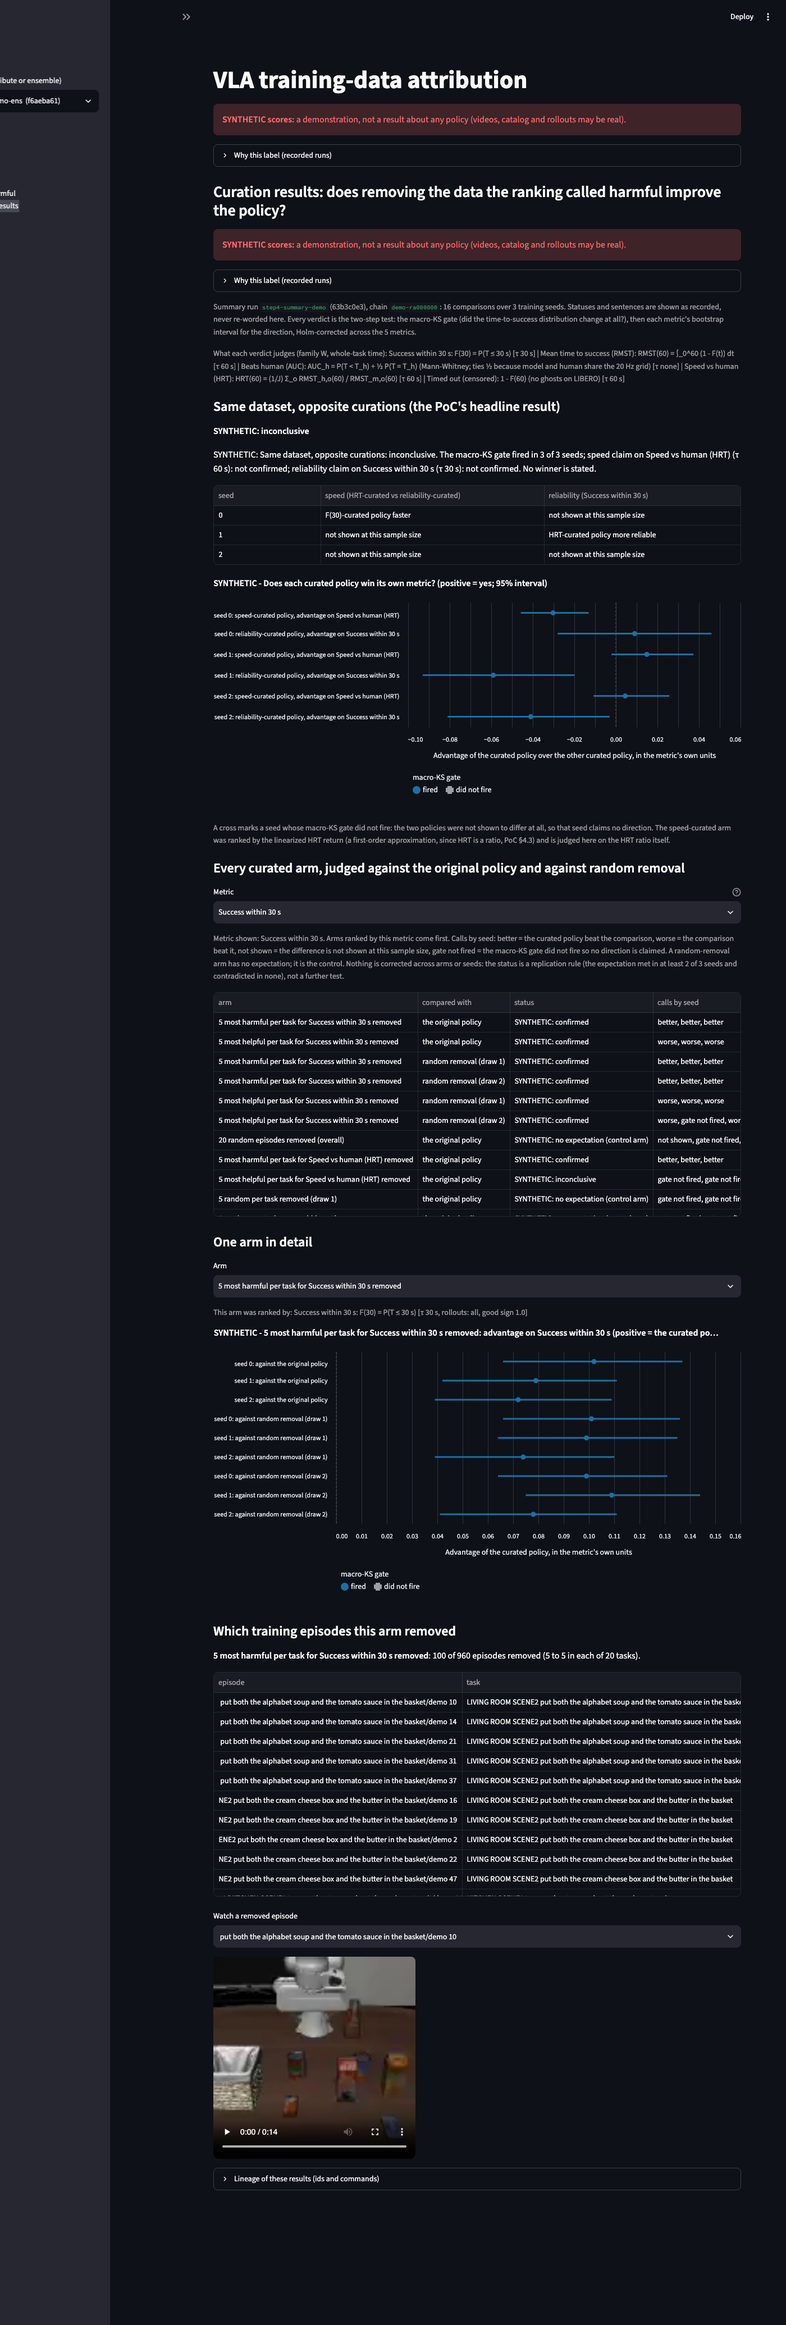
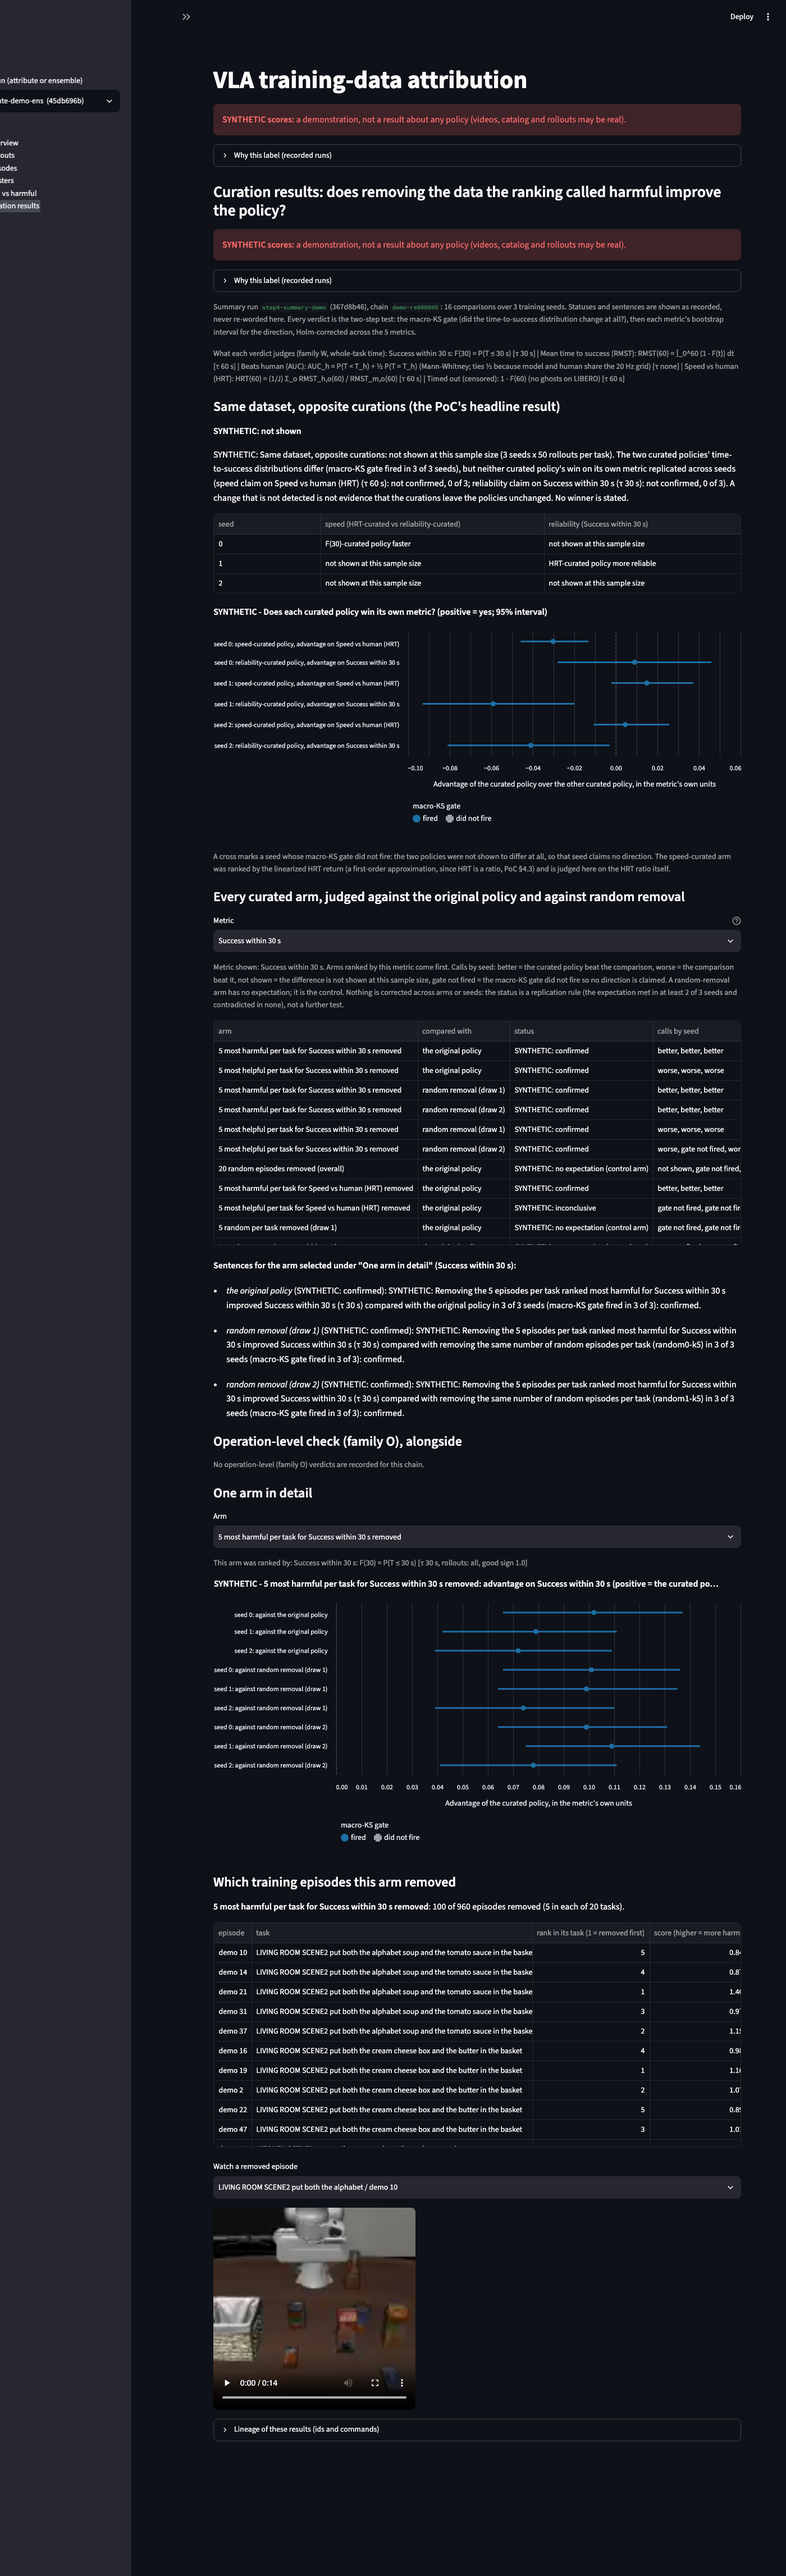
Curation-results r2: execution log round 2, re-captured screenshot, verifier evidence

Changed region(s): [[0.2457, 0.0312, 0.9521, 0.9346], [0.0, 0.0, 0.1843, 1.0]]

diff --git a/tracker/features/2026-11-05-curation-results/execution-log.md b/tracker/features/2026-11-05-curation-results/execution-log.md
@@ -38,7 +38,7 @@ How to view the page: `.venv/bin/streamlit run dashboard/app.py -- --lineage-roo
 **Acceptance criteria:**
 - PASS AC3.1: `[PASS] 3.1 ... {'select': 7, 'train': 24, 'eval': 24, 'verify': 48, 'summarize': 1}; verify kinds {'curated_vs_random': 24, 'vs_base': 21, 'head_to_head': 3}; names equal the dry run's 48; provenance SYNTHETIC (111 runs walked)`; every run of the chain tagged `vlapoc.synthetic=true`; real `mlflow.db` sha256 unchanged (`306af412...bde79`).
 - PASS AC3.2: `[PASS] 3.2 ... gate p 0.00049975 == 0.00049975; f30 diff -0.0590 CI -0.0930..-0.0200` (pair HRT-curated vs F30-curated, seed 1, recomputed with `compare_policies` from the recorded rollouts, equality on gate p and every metric's diff, ci95, p_holm).
-- PASS AC3.3: `[PASS] 3.3 ... status codes ['confirmed', 'inconclusive', 'no expectation (control arm)', 'not confirmed']; headline 'SYNTHETIC: inconclusive'`. Printed as produced, not targeted. The recorded headline sentence: "SYNTHETIC: Same dataset, opposite curations: inconclusive. The macro-KS gate fired in 3 of 3 seeds; speed claim on Speed vs human (HRT) (τ 60 s): not confirmed; reliability claim on Success within 30 s (τ 30 s): not confirmed. No winner is stated." Rows of the demo summary (16 = W only: 7 vs_base, 8 curated_vs_random, 1 head_to_head): both curated-for-F30 and curated-for-HRT arms are `confirmed` against base and against both random draws on f30 and hrt60; help-F30 `confirmed` (worse); help-HRT (planted weak) `inconclusive`; random arms `no expectation (control arm)`; the head-to-head pair is `not confirmed` on both claims although the gate fired 3/3 (per seed: one seed each way, otherwise not shown). **My pilots could not plant "each policy wins its own metric"** (the F30-curated policy that completes more attempts also wins on HRT and RMST, because timeouts count at 60 s in both), so I stopped tuning and kept the honest result, an `inconclusive` headline: this demonstrates the discipline, not a win.
+- PASS AC3.3: `[PASS] 3.3 ... status codes ['confirmed', 'inconclusive', 'no expectation (control arm)', 'not confirmed']; headline 'SYNTHETIC: inconclusive'`. Printed as produced, not targeted. The recorded headline sentence: "SYNTHETIC: Same dataset, opposite curations: inconclusive. The macro-KS gate fired in 3 of 3 seeds; speed claim on Speed vs human (HRT) (τ 60 s): not confirmed; reliability claim on Success within 30 s (τ 30 s): not confirmed. No winner is stated." Rows of the demo summary (16 = W only: 7 vs_base, 8 curated_vs_random, 1 head_to_head): both curated-for-F30 and curated-for-HRT arms are `confirmed` against base and against both random draws on f30 and hrt60; help-F30 `confirmed` (worse); help-HRT (planted weak) `inconclusive`; random arms `no expectation (control arm)`; the head-to-head pair is `not confirmed` on both claims although the gate fired 3/3 (per seed: one seed each way, otherwise not shown). **My pilots could not plant "each policy wins its own metric"** (the F30-curated policy that completes more attempts also wins on HRT and RMST; the reason, that timeouts count at 60 s in both, is **inferred**; the observation is **measured** in `data/scratch/cur/pilot3.py` runs: f30-vs-hrt diff on hrt60 +0.058, p_holm 0.033 in the F30 arm's favour), so I stopped tuning and kept the honest result, an `inconclusive` headline: this demonstrates the discipline, not a win.
 - PASS AC3.4: `verify_dashboard.py --app` 11/11, `--render` 4/4, `--dropin` 6/6 after the rebuild. `--demo` 5/6: `6.5` fails on **free disk 15 GiB < 20 GiB (measured `df`: 17 GiB free)**, an environment fact; the demo store is 17 MiB and the cache 18 MiB (under 2 GiB). Build times (**measured**, manifest): whole build with smoke 921 s, of which Round A 381 s (48 verdicts 377 s, about 7.9 s each; plan inferred 9.3 s each).
 - PASS AC3.5: `[PASS] 3.5` (AST of `synthetic_rollouts` names none of groundtruth / recovery / discrepancy / open_for_method; every eval run's params carry `planted_effect` in words, e.g. 'same as the base policy (random removal) (f 3.0, sigma 0.5, p 0.8)').
 **Demo artifacts produced:** `data/lineage_demo` (rebuilt with `--with-smoke --force`, manifest `round_a`), `artifacts/verify_dashboard_curation.json`.
@@ -94,7 +94,56 @@ Run after the final demo rebuild, on the committed tree (logs under `data/scratc
 2. **Pre-existing `verify_runbook.py` failure (AC1.5 / brief "still passes"):** check `8.5` (CLAUDE.md diffstat equals the value recorded before dashboard batch B1) fails at HEAD `4aeff57` without any of my changes (**measured**: with my work stashed, `verify_runbook.py` gives 9/10 with only 8.5 failing; the recorded file `b1_claude_md_diffstat_before.txt` is non-empty and CLAUDE.md is now committed). All counts (116/24, 129/33, 21/6) and the other 9 checks pass. I did not edit the recorded file or CLAUDE.md. Also: `verify_runbook.py` check 8.1c fails when the source tree is dirty (uncommitted edits under `vlapoc/` or `scripts/` make the eval stage refuse), so run it on a committed tree.
 3. **`verify_dashboard.py --demo` 6.5 fails on this machine**: free disk is 17 GiB, the check wants > 20 GiB. Not related to the change (store 17 MiB).
 4. **Plan divergence (S3):** demo ranks by the all-rollout column because the synthetic rollouts cover 2 tasks. If the owner wants the demo to show per-task ranking by `__same_task`, the demo needs synthetic rollouts for all 20 tasks.
-5. **The demo's headline is `inconclusive`, not `shown`.** A synthetic policy that completes more attempts wins on every metric, so the two curations did not trade off in my pilots (`data/scratch/cur/pilot*.py`); I did not keep tuning until the headline looked good. The `shown`, `partly shown` and `contradicted` states are exercised by the S1 fixture (1.2) and the unit-level page test (4.7 shows the inconclusive card).
+5. **The demo's headline is `inconclusive`, not `shown`.** In my pilots (**measured**, `data/scratch/cur/pilot3.py`) a synthetic policy that completes more attempts won on HRT and RMST as well as F30; why (timeouts count at 60 s in both) is **inferred**. So the two curations did not trade off (`data/scratch/cur/pilot*.py`); I did not keep tuning until the headline looked good. The `shown`, `partly shown` and `contradicted` states are exercised by the S1 fixture (1.2) and the unit-level page test (4.7 shows the inconclusive card).
 6. **Scope of the page checks:** AppTest checks 4.1-4.9 run only on the demo and scratch copies; the real server summary is first rendered the day Round A finishes (the drop-in proves the shape, not the numbers).
 7. The inferred rules (across-seed rule from `confirm`, headline rule, inconclusive vs not confirmed) are recorded as the `rule` param and in the summary JSON; the owner may override.
 8. `step4.collect` reads `k` from the select run's params; summaries recorded before S1 lack the `k` column and arm labels then read "the top most harmful ..." instead of "5 most harmful ...".
+
+## Round 2: 2026-11-05 (rework after analysis-r1 and plan revision r1)
+
+Commits: B1 `step4` and `--step4` checks; B2 runbook check; B3 and N4 page and verifier; two follow-up fixes. Demo rebuilt with `dashboard_demo.py build --with-smoke --force` (881 s, Round A 380 s; **measured**, manifest). Screenshot re-captured and looked at: `artifacts/screens/curation_results.png` (1400 px, page height 4508): the card now reads "SYNTHETIC: not shown" with the bounded sentence, the per-seed table, the forest plot, the arm table with the selected arm's sentences as text below it, and the operation-level section caption.
+
+### B1: headline state `not shown`
+**Files:** `vlapoc/step4.py` (`headline()` order: contradicted, shown, partly shown, `inconclusive` only if gates < ceil(2n/3), else `not shown`; `RULE`, module docstring bullet, both sentences), `scripts/verify_training_attribution.py` (`--step4` 1.2 six cases, 1.3 six headline sentences, 1.6 `not shown` in RULE/docstring, new 1.7), `dashboard/views/curation.py` docstring.
+- PASS AC1.2: `[PASS] 1.2 ... headline codes [...]` six cases with literal expectations: shown, partly shown, contradicted, `h-inconclusive` gate 0/3 -> inconclusive, `h-notshown` gate 3/3 (hrt60 `C,0,0`, f30 `0,T,0`) -> not shown, `h-notshownb` gate 2/3 (hrt60 and f30 `0,0,g`; the boundary case tests the **inferred** rule) -> not shown; the not-shown and inconclusive sentences contain "No winner is stated" and not "wins its own metric".
+- PASS AC1.3: `[PASS] 1.3 ... 162 texts scanned` (all six headline sentences included, 6 asserted).
+- PASS AC1.6: `[PASS] 1.6 ... missing: []` including `grep -c "not shown" vlapoc/step4.py` >= 2 (12), the docstring bullet "``not shown`` otherwise" and no "inconclusive otherwise".
+- Demo: `--curation` 3.3 prints `headline 'SYNTHETIC: not shown': SYNTHETIC: Same dataset, opposite curations: not shown at this sample size (3 seeds x 50 rollouts per task). The two curated policies' time-to-success distributions differ (macro-KS gate fired in 3 of 3 seeds), but neither curated policy's win on its own metric replicated across seeds (speed claim on Speed vs human (HRT) (τ 60 s): not confirmed, 0 of 3; reliability claim on Success within 30 s (τ 30 s): not confirmed, 0 of 3). A change that is not detected is not evidence that the curations leave the policies unchanged. No winner is stated.`
+- PASS AC4.7a/b/c (`--curation`, 23/23): `4.7a` gate-0/3 scratch copy -> card "inconclusive"; `4.7b` demo -> `card '**SYNTHETIC: not shown**'; headline gate 3/3`, no "inconclusive" in the card, no "wins its own metric" on the page; `4.7c` `demo: card 'not shown', row statuses hrt60 'not confirmed' / f30 'not confirmed'; gate-0/3 copy: card 'inconclusive', row 'inconclusive' / 'inconclusive'`.
+
+### B2: runbook check 8.5
+**Files:** `scripts/verify_runbook.py` (8.5 re-anchored), `artifacts/claude_md_base_commit.txt` (`bad024135a4e9462bf34a843cc6b061b80dd4c6d`); the old `b1_claude_md_diffstat_before.txt` is kept unchanged as history. CLAUDE.md not touched.
+- The check now asserts no commit after the base touches CLAUDE.md and the working tree has no change to it. **Measured:** `git log --oneline bad0241..HEAD -- CLAUDE.md | wc -l` -> `0`.
+- PASS: `.venv/bin/python scripts/verify_runbook.py` -> `[PASS] 8.5 ... base bad02413; commits touching CLAUDE.md after it: []; working-tree diff ''` and `runbook: pass=True (10/10)` on a committed tree (all counts 116/24, 129/33, 21/6 pass).
+
+### B3: family O section
+**Files:** `dashboard/views/curation.py` (section "Operation-level check (family O), alongside": recorded O rows with arm, metric, compared with, status, calls by seed, gate fired, sentence verbatim; caption with the O functional from the registry and the three required statements; "No operation-level (family O) verdicts are recorded for this chain." when none; O rows stay out of the headline, W table and plots; new `row_keys` because the recorded JSON gives every row every column, NaN for the other family's metrics), `vlapoc/step4.py` (`metric_phrase` takes the registry's plain `metric` name for family O), `scripts/verify_dashboard.py`.
+**Premises checked (planner's risks):** (a) code that loops all summary rows and reads `f30__status` breaks once O rows exist -> **true**: the first Round 2 drop-in run raised `KeyError: 'nan'` on the page (the JSON rows carry NaN for the other family's columns) and the 5.1 `want` set needed a family filter; fixed in the page (`row_keys`) and the verifier (filter by family) -> now holds. (b) `compare_policies(..., family="O")` on the drop-in fixture -> **it completes**: 21 O verifies ran through the stage CLI and the recorded `rmst60_op_cap` rows have statuses and sentences; O was not dropped.
+- PASS AC1.7: `[PASS] 1.7 ... 'operation RMST, capped (τ 60 s)'`.
+- PASS AC4.11a: `[PASS] 4.11a ... W table rows 16; O rows recorded 0` and the caption above is on the page.
+- PASS AC5.5 and 4.11b/c: `--dropin` 7/7: `[PASS] 5.5 ... 23 summary rows, O metric 'rmst60_op_cap', O table 7 rows, W table 16; forest rows [6, 9]; unreached []; snake []; 69 verdicts ran in total`; `[PASS] 5.1 ... 7 selects (k 5/3), 69 verdicts, 23 summary rows (7 family O), headline ['not shown']`; `[PASS] 5.2`. Added drop-in time (**measured**): the stage-CLI chain took 236 s (was 208 s); the whole mode 278 s (was 241 s) for the 21 added O verifies. 5.5 is evaluated on the re-tagged (REAL) page, since before the re-tag the header banner lists unconverted smoke reasons.
+
+### Item 4: inferred claims labelled
+Finding 5 and S3 AC3.3 above now read: the observation (a policy that completes more attempts also wins on HRT and RMST in the pilots) is **measured** (`data/scratch/cur/pilot3.py`: f30-arm vs hrt-arm, hrt60 diff +0.058, p_holm 0.033), the reason (timeouts count at 60 s in both) is **inferred**.
+
+### N3 and N4 (done)
+- N3: `--step4` writes its curation checks to `artifacts/verify_step4_curation.json` (20/20 pass, S1 checks 1.1-1.7) and the training-attribution feature's `s4_summary_and_selects.json` is no longer touched (`git status` clean for that file after the run, **measured**).
+- N4: removed-episodes column shows the demo index (`demo 10`) with the full task name in its own column; the span reads "5 in each of 20 tasks"; the selected arm's recorded sentences are shown as text below the arm table (`Sentences for the arm selected under "One arm in detail"`). N1, N2, N5 left to the refactorer.
+
+### Regression (Round 2, measured; final rebuilt demo, committed tree)
+| Command | Result |
+|---|---|
+| `verify_dashboard.py --curation` / `--app` / `--render` / `--dropin` | 23/23, 11/11, 4/4 (Curation plots 222 and 306 px), 7/7 |
+| `--results --clusters --planted --discrepancy --round-b --planted-arms` | 12/12, 14/14, 7/7, 10/10, 13/13, 8/8 |
+| `--demo` | 5/6; 6.5 fails on free disk only (`free 19 GiB` < 20 GiB; store 17 MiB, cache 19 MiB): environmental |
+| `verify_training_attribution.py --step4` | 20/20 |
+| `--blind --functionals --recovery --names --groups --integration`, `--pipeline data/scratch/dash_exec/dry_pipeline.txt` | all rc 0 |
+| `verify_runbook.py` | **10/10** |
+| `verify_attribution.py` | 32/32 |
+| `verify_lineage_s3`, `verify_blind_s0`, `verify_method_boundary_s3`, `verify_derive_gt_s2`, `verify_verdict_s7`, `verify_metrics_s1`, `verify_consumers_s6`, `verify_runs_s5 --r2`, `verify_returns_s6 --synthetic` | rc 0 |
[1 lines of base64/hex data omitted]
+Other features' tracked artifacts rewritten by the verifiers were restored with `git checkout`. No streamlit or Chrome process is left running (`ps` count 0).
+
+### Findings
+1. The recorded summary JSON gives every row every column (NaN where the other family has no metric). Any reader that picks metric keys from `rows[0]` must use only the string-valued `__by_seed` columns (`row_keys`).
+2. Pre-existing and still open for the refactorer or owner: N1 (free-disk threshold in `--demo` 6.5), N2 (`treated_advantage` duplicate), N5 (`condensed_reasons`).
